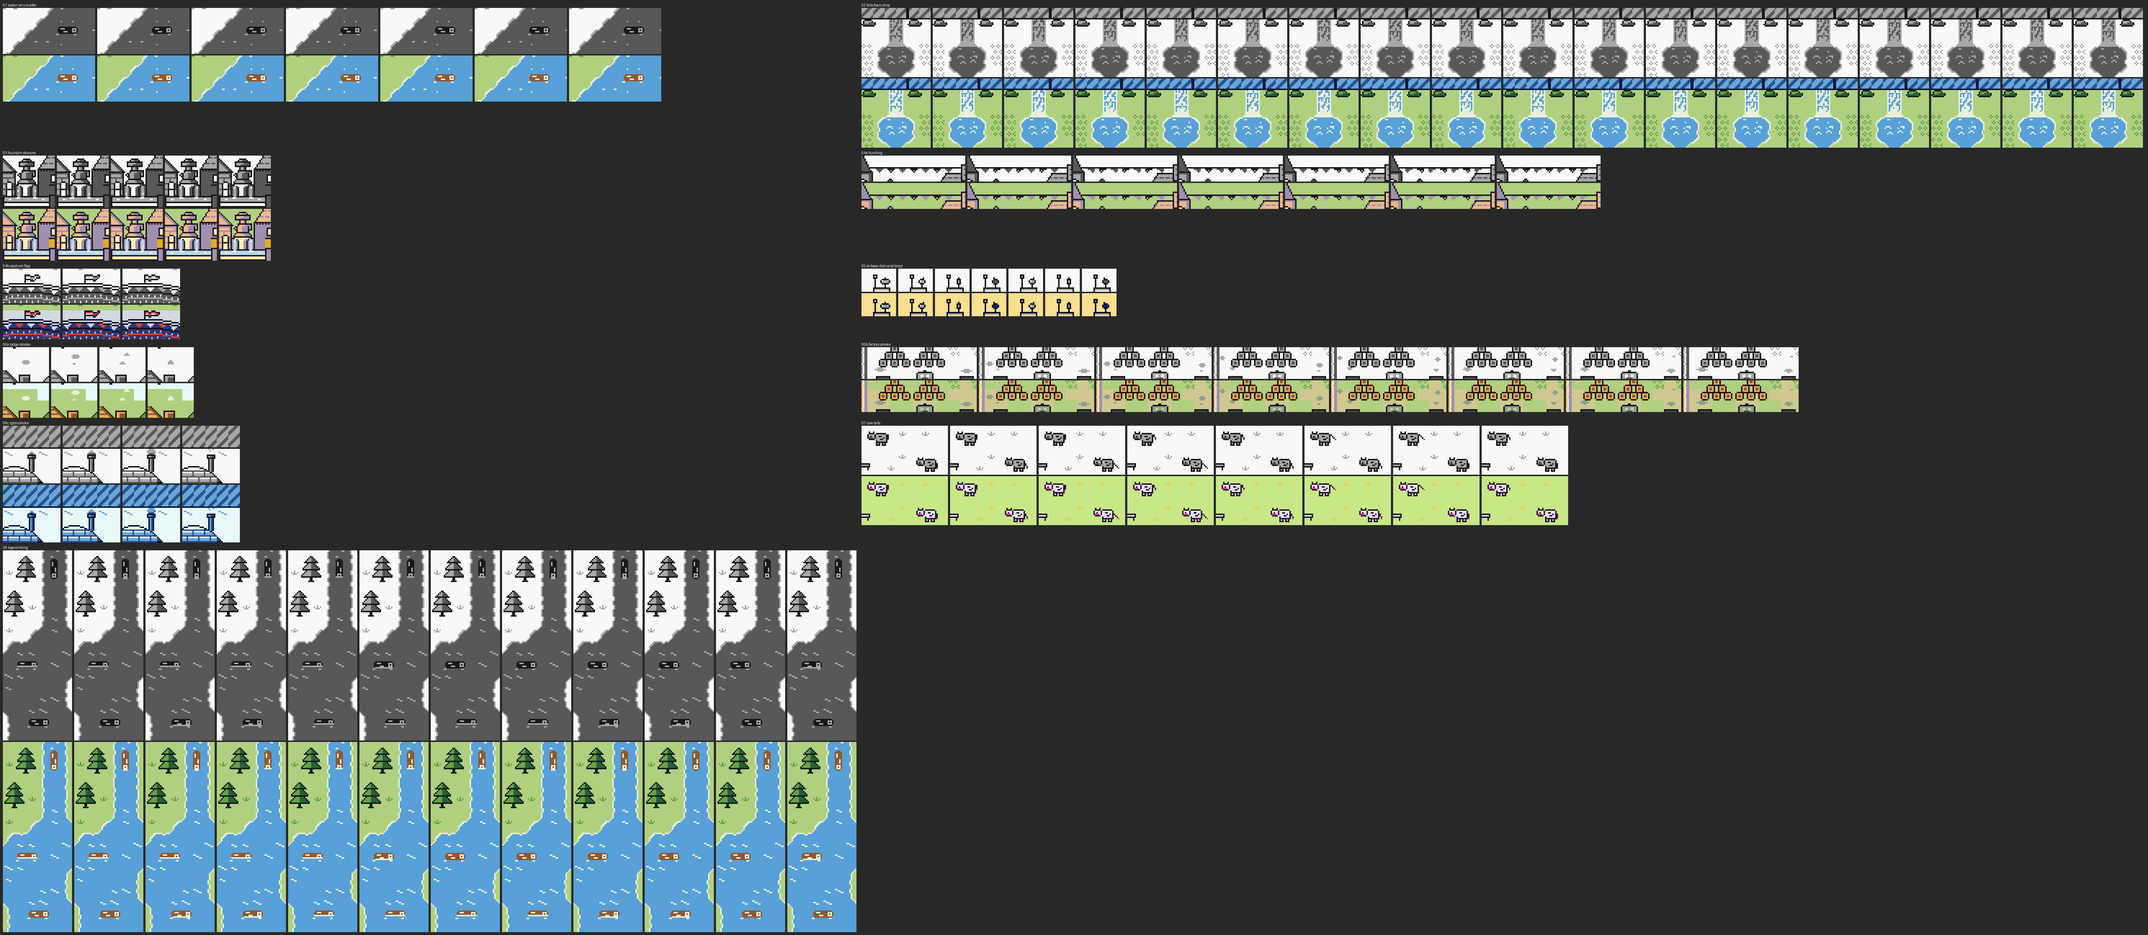
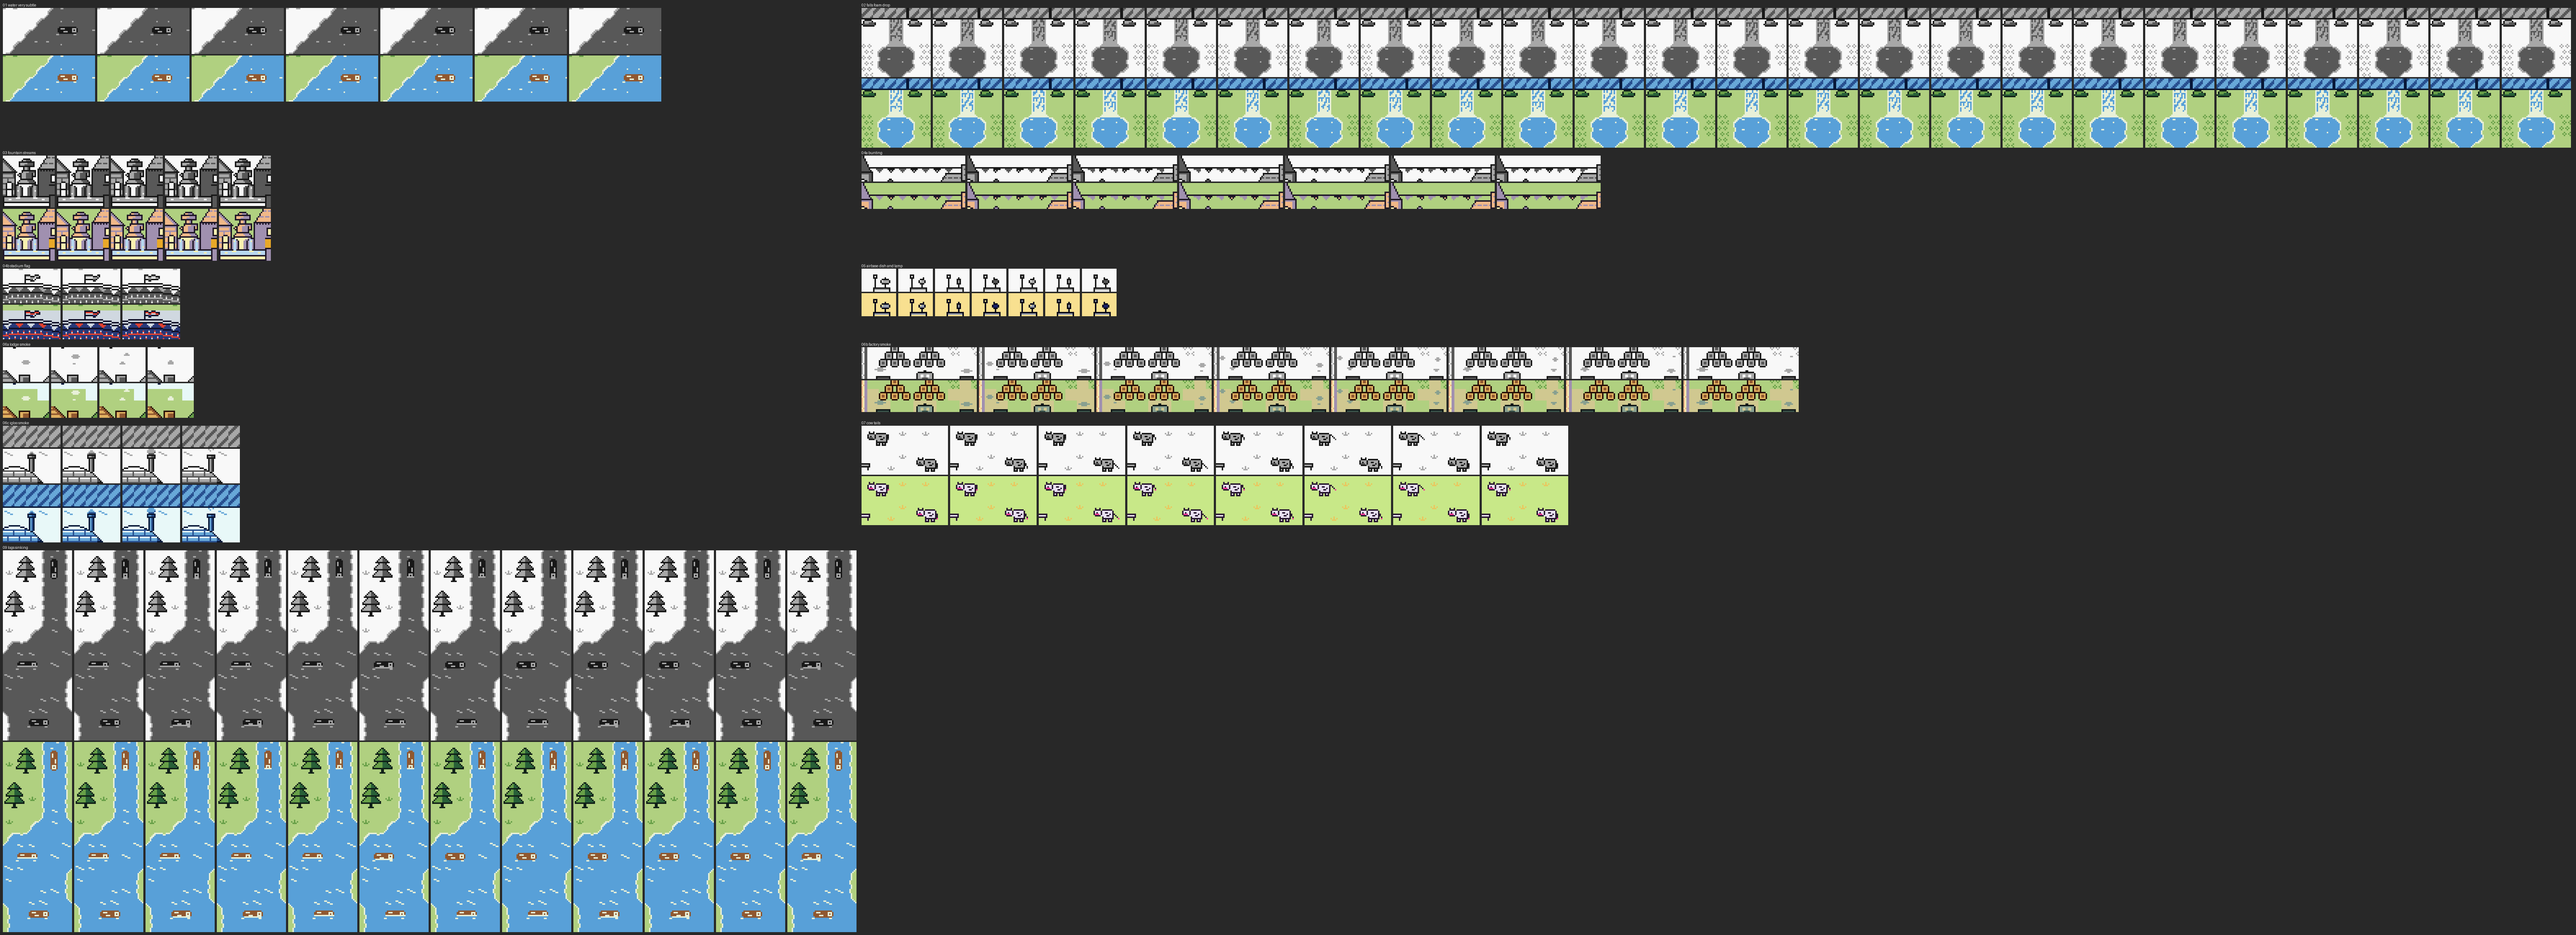
Falls pool: splash arcs replaced by plain water with glints
The two foam arcs under the falls read as bubbles. Cells (46,8) and (47,8)
become the existing water tiles WA and WB: no new images or tile ids, and
they glint with the river. Foam lip kept. Re-rendered 02_falls.gif and the
before/after sheet; NOTES updated. Proposal only: no assets/, engine or
goldens.

Claude-Session: https://claude.ai/code/session_01WXumg9pvGTKbXyU3qBciuY

Changed region(s): [[0.0, 0.156, 0.8421, 0.9985], [0.0, 0.0, 0.998, 0.2496], [0.3119, 0.2808, 0.5302, 0.3432]]

diff --git a/docs/dev/proposals/smap_anim/items.py b/docs/dev/proposals/smap_anim/items.py
@@ -54,7 +54,7 @@ def water(a5, strength="vsubtle"):
 #    on each side), breaking into foam holes, bubbles and a few spray pixels below.  Kept pixel-exact: the bank rims (land 0, rim 1) at both sides of every falls row and of the pool's
 #    four widening rows; pool rows 6-7 of the foot cells (they join the splash cells below); the splash cells themselves.  NEW STATIC ART: the 4 falls tiles + 2 foot tiles change on the map.
 #    Falls: the 12 flowing rows (0-11) fall 3 rows a step, 4 frames, 9 video frames a step (the aliasing note: a step must stay smaller than the gaps between streaks); the lower four
-#    rows (12-15) are a fixed foam lead-in.  Foot: foam lip + very subtle glints (the owner dropped the bubbles and spray); the splash arcs below stay as the approved map art, static.
+#    rows (12-15) are a fixed foam lead-in.  Foot: foam lip + very subtle glints (the owner dropped the bubbles and spray); the two splash arcs below are now the plain water tiles WA and WB (owner).
 #    Falls columns f0..f7 (f0 = left tile col 4 ... f3 = col 7; f4 = right tile col 0 ... f7 = col 3), '-' foam / '+' water, rows 0-11 of frame 0 (typed):
 FALL_COLS = ["++-+++-+++-+", "-------++--+", "++---+++---+", "----++-----+", "--+++----++-", "+++---++---+", "-----+++---+", "+++-++-+++-+"]
 FALL_FOOT = ["+--+---+", "+------+", "+-----+-", "--------"]                  # rows 12-15, f0..f7
@@ -110,6 +110,8 @@ def falls(a5):
                     assert tile[j][i] == old[j][i], ((cx, cy), j, i)
         if cy == 7:
             assert tile[7] == old[7], (cx, cy)
+    new_static[(46, 8)] = WS["vsubtle"]["A"][0]                                      # the two splash arcs go (owner: bubbles): the cells become the water tiles WA and WB,
+    new_static[(47, 8)] = WS["vsubtle"]["B"][0]                                      # already in the map, so no new image and the glints come with the water animation
     for (cx, cy), tile in new_static.items():                                       # NEW STATIC ART on the shared scene (every item that shows the falls sees it)
         for j, r in enumerate(tile):
             for i, c in enumerate(r):
@@ -118,6 +120,9 @@ def falls(a5):
     an = [TileAnim(n, c, [f[(n, k)] for k in range(1, FALL_FRAMES)], seq, 9) for n, c in cells]
     gseq = [0, 0, 1, 0, 0, 2]
     an += [TileAnim("FOOT_L", (46, 7), [FOOT_L[1], FOOT_L[2]], gseq, 30, FOOT_PH[0]), TileAnim("FOOT_R", (47, 7), [FOOT_R[1], FOOT_R[2]], [0, 0, 2, 0, 0, 1], 30, FOOT_PH[1])]
+    w = WS["vsubtle"]                                                               # "~" = the shared WA / WB tiles (counted in 01_water, shown here so the GIF moves)
+    an += [TileAnim("~WA", (46, 8), [w["A"][1], w["A"][2]], [0, 0, 1, 0, 0, 2], 30, 0, cells_list=((46, 8),)),
+           TileAnim("~WB", (47, 8), [w["B"][1], w["B"][2]], [0, 0, 2, 0, 0, 1], 30, 15, cells_list=((47, 8),))]
     return Item("02_falls", "Waterfall (foam drop, foam lip, glints in the pool)", a5, (304, 0), an, focus=(352, 32, 400, 80))
 
 

diff --git a/docs/dev/proposals/smap_anim/build.py b/docs/dev/proposals/smap_anim/build.py
@@ -65,6 +65,8 @@ for it in items:
     rows = []
     ev = []
     for a, base, cells in res:
+        if a.name.startswith('~'):
+            continue
         imgs = [base] + list(a.frames)
         orig_set = tiles_orig[id(it.scene)]
         rom_new = {x for x in imgs if x not in orig_set}
@@ -88,12 +90,12 @@ for it in items:
         per_t.setdefault(t, []).append(nme)
     maxw = max((len(v) for v in per_t.values()), default=0)
     events_per_loop = len(per_t)
-    rom_new_total = len({x for a, base, cells in res for x in ([base] + list(a.frames)) if x not in tiles_orig[id(it.scene)]})
-    rom_new_rest = len({base for a, base, cells in res if base not in tiles_orig[id(it.scene)]})
+    rom_new_total = len({x for a, base, cells in res if not a.name.startswith("~") for x in ([base] + list(a.frames)) if x not in tiles_orig[id(it.scene)]})
+    rom_new_rest = len({base for a, base, cells in res if not a.name.startswith("~") and base not in tiles_orig[id(it.scene)]})
     ids_new = sum(1 for r in rows if r["needs_id"])
     tiles_written = len(ev)
     report.append(dict(key=it.key, title=it.title, view=it.view, loop=L, gif_frames=len(ts), anims=rows, max_tiles_per_event=maxw, events_per_loop=events_per_loop,
-                       tile_writes_per_loop=tiles_written, rom_new=rom_new_total, rom_new_at_rest=rom_new_rest, ids_new=ids_new, slots=len(res), check=worst,
+                       tile_writes_per_loop=tiles_written, rom_new=rom_new_total, rom_new_at_rest=rom_new_rest, ids_new=ids_new, slots=len([a for a, b, c in res if not a.name.startswith("~")]), check=worst,
                        cells={r["name"]: r["cells"] for r in rows}))
     for t, nme in ev:
         all_events.append((it.key, nme, t % L, L))

diff --git a/docs/dev/proposals/smap_anim/NOTES.md b/docs/dev/proposals/smap_anim/NOTES.md
@@ -18,8 +18,8 @@ Third pass (owner: "the water glints could be more subtle. Also, the waterfall s
 Fourth and fifth pass (owner: "can we make the logs bob in the water? New glints are better." / "very subtle water please." / "the waterfall at this point reads more like river than a falls. bottom probably needs foam." / "Fewer logs in the river please. bobbling logs should actually seem to sink a bit in the water, not just shift position." / "waterfall looks better, but bubbles in the pond under it are unneeded. replace with glints."):
 - Water: VERY SUBTLE (`01_water.gif`; subtle dropped from the build, its tiles stay typed in `items.py`).
 - Logs (`09_logs.gif`): 6 of the 12 logs stay, spread along the river: upright (cell, top) (46,20), (46,29), (45,43); across (left cell) (42,52), (43,57), (44,68). Removed, now plain water (the flat water tile, no new art): across (48,33), (54,33), (57,32), (42,65); upright (46,36), (45,46). A kept log does not move: the waterline rises over its lowest 1 row, then 2 rows (those pixels become water, the row where water meets wood is a 1 px foam line), then back. Across logs rewrite both cells, upright logs only their bottom cell. The logs sit on flat water, so no glints share their tiles. Each log is its own phase group; step 18 frames, rest 5 steps; phases picked so no two logs step in the same frame and none meets a water step. Cost +6 images, +6 tile ids; logs alone peak 2 tiles, 32 B.
-- Falls (`02_falls.gif`, `before_after_falls_logs.png`): environments.md 11, "Waterfalls: 1-px vertical streaks of a lighter shade at varied lengths and speeds, edges that jitter by 1 px, and an impact of sparkle pixels plus ripple rings." and "Droplets and foam: compact at rest, a stretched streak mid-flight, compact on landing." Falls are foam (index 1) with water streaks (index 2) between, clearly lighter than the river; the pool top keeps the foam lip (3 rows), the bubbles, spray and my splash ring are gone, and the pool cells carry the very subtle glints (a dash in the left cell, a pixel in the right, same pace as WA and WB). Kept pixel-exact (asserted in `items.py`): bank rims and land on every falls row and in the pool cells, and pool row 7. One speed (3 rows a step) to close the loop in 4 frames, not "varied speeds": a cost choice. NEW STATIC ART: 4 falls tiles + 2 pool tiles.
-- Open: the two splash arcs below the lip (the approved A5 map tiles, static) look like two little eyes; I read "bubbles" as my foot-band bubbles and kept the arcs. If the owner means the arcs too, they can be swapped for plain water or glints at +0 images.
+- Falls (`02_falls.gif`, `before_after_falls_logs.png`): environments.md 11, "Waterfalls: 1-px vertical streaks of a lighter shade at varied lengths and speeds, edges that jitter by 1 px, and an impact of sparkle pixels plus ripple rings." and "Droplets and foam: compact at rest, a stretched streak mid-flight, compact on landing." Falls are foam (index 1) with water streaks (index 2) between, clearly lighter than the river; the pool top keeps the foam lip (3 rows), the bubbles, spray and my splash ring are gone, and the pool cells carry the very subtle glints (a dash in the left foot cell, a pixel in the right, same pace as WA and WB; the cells below are WA and WB themselves). Kept pixel-exact (asserted in `items.py`): bank rims and land on every falls row and in the pool cells, and pool row 7. One speed (3 rows a step) to close the loop in 4 frames, not "varied speeds": a cost choice. NEW STATIC ART: 4 falls tiles + 2 pool tiles.
+- Splash arcs: the two foam arcs below the lip (they read as bubbles or eyes) are replaced by the existing water tiles WA and WB: plain water that glints with the rest of the river, no new image, no new tile id. This changes two approved static A5 map cells, (46,8) and (47,8), by the owner's word.
 
 
 ## The table
@@ -29,7 +29,7 @@ Frames = distinct images of one tile. "Tiles / step" = tile images rewritten in 
 | # | Item | Frames | Tiles / step | ROM tiles | Cadence | Shared or unique | VRAM per step |
 |---|---|---|---|---|---|---|---|
 | 1 | Water glints, VERY SUBTLE (owner pick): tiles WA and WB (19 and 22 cells; WF stays flat). WA one 2 px dash, WB one single pixel (was 6 + 4 px) | 3 each | 1 (WA, WB half a period apart) | +4 (WA, WB redrawn with fewer glints: the map keeps 2 tiles, net 0) | 30, still 2 steps of 3 | shared, cheap | 16 B |
-| 2 | Waterfall as a foam drop: 2 x 2 falls cells mostly foam with long water streaks; foam lip where it lands; the rest of the pool has the very subtle glints (no bubbles, no spray); splash arcs below static (approved map art) | falls 4 (3 rows a step), foot 3 (glints) | falls 4; foot 1 | +16 net on the map (22 images, 6 replace static map tiles) | falls 9; foot glints 30 | unique, 6 cells | 64 B / 16 B |
+| 2 | Waterfall as a foam drop: 2 x 2 falls cells mostly foam with long water streaks; foam lip where it lands; the rest of the pool has the very subtle glints (no bubbles, no spray); the two splash arcs below replaced by the plain water tiles WA and WB (owner), so they glint with the water | falls 4 (3 rows a step), foot 3 (glints) | falls 4; foot 1 | +16 net on the map (22 images, 6 replace static map tiles) | falls 9; foot glints 30 | unique, 6 cells | 64 B / 16 B |
 | 3 | Town fountain: two side streams (2 cells) + basin glints (2 cells), round 3 art | 3 streams, 2 basin | up to 2 | +6 | 12 | unique | 32 B |
 | 4a | Town bunting, 7 flags | 3 | 1 or 2 | +6 | 15, P and Q 6 apart | P, Q shared (3 cells each); end flag unique | 16-32 B |
 | 4b | Approved stadium: wavy flag, 2 cells | 3 | 1 or 2 | +4 | 9 | unique | 16-32 B |
